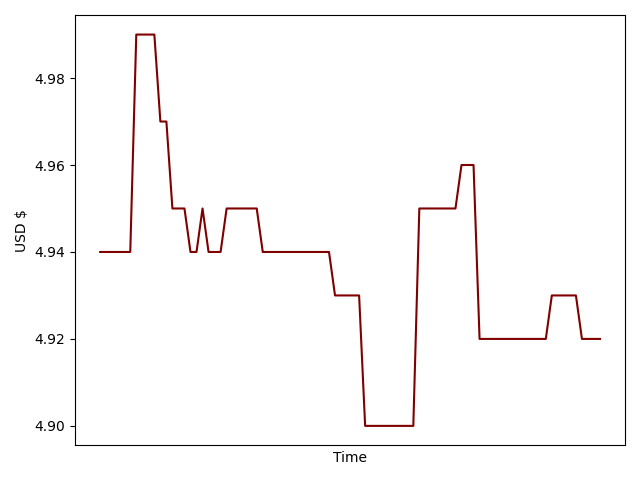
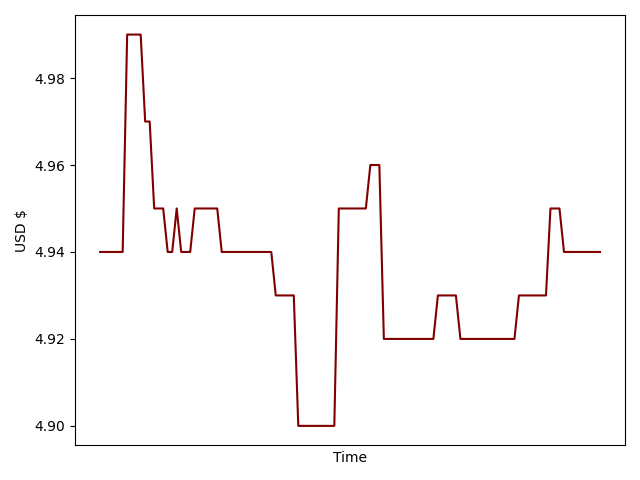
read and throw in database lol

diff --git a/templates/main.html b/templates/main.html
@@ -17,12 +17,16 @@
 </div>
 
 <div class="sidenav">
-  <a href="#about">{{ btc }}</a>
-  <a href="#services">{{ doge}}</a>
-  <a href="#clients"> {{ eth }}</a>
-  <a href="#contact"> {{ ltc }}</a>
+  <a href="/btc">{{ btc }}</a>
+  <a href="/doge">{{ doge}}</a>
+  <a href="/eth"> {{ eth }}</a>
+  <a href="/ltc"> {{ ltc }}</a>
   <hr/>
-  <a href="#"> {{ total }}</a>
+  <a href="/"> {{ total }}</a>
+  <form method="post">
+  <hr/>
+  <input class="btn btn-success" type="submit" value="UPDATE">
+  </form>
 </div>
 
 </body>

diff --git a/static/css/style.css b/static/css/style.css
@@ -11,15 +11,20 @@ body {
   right: 0;
   background-color: #DEDEDE;
   overflow-x: hidden;
-  padding-top: 20px;
+  padding: 20px 8px 0px 16px;
 }
-
 .sidenav a {
-  padding: 6px 8px 6px 16px;
+  padding-bottom: 6px;
   text-decoration: none;
   font-size: 10px;
   color: #414141;
   display: block;
+}
+
+.sidenav input {
+  height: 20px;
+  padding: 0px 5px 0px 5px;
+  font-size: 10px;
 }
 
 hr {

diff --git a/coinbaseacc.py b/coinbaseacc.py
@@ -7,13 +7,24 @@ from coinbase.wallet.client import Client
 from coinbase.wallet.error import AuthenticationError
 # datetime
 import datetime as dt
+# requests
+import requests
+import urllib.request
+import json
+
 
 class CoinbaseAccount:
-    def __init__(self, client, portfoliofb):
+    def __init__(self, client, database):
         self.cb = client
-        self.portfoliofb = portfoliofb
+        self.portfoliofb = database.child('portfolio')
+        self.p_crypto = database.child('crypto')
         self.user = self.cb.get_current_user()
         self.accounts = self.cb.get_accounts()
+        self.priceAPI = CoinbasePriceAPI(self.cb)
+        
+    def graph_now(self):
+        now = dt.datetime.now().strftime("%d-%m-%Y %H:%M:%S")
+        return now
     
     def balance(self):
         total = 0
@@ -24,7 +35,7 @@ class CoinbaseAccount:
                 message.append(str(wallet['name']) + ': ' +   str(wallet['native_balance']).replace('USD ','$') )
             total += float(value)
         message.append( 'Total Balance: ' + '$' + str(total) )
-        now = dt.datetime.now().strftime("%d-%m-%Y %H:%M:%S")
+        now = self.graph_now()
         print(now)
         self.portfoliofb.update({now: total})
         return('\n'.join( message ))
@@ -33,10 +44,28 @@ class CoinbaseAccount:
         pass
     
     def current_price(self, coin):
-        pass
+        currency_code = "USD"
+        price = self.priceAPI.get_price(coin,currency_code)
+        coin_fb = self.p_crypto.child(f'{coin}/POT')
+        now = self.graph_now()
+        coin_fb.update({now: price})
     
     def buy(self, coin):
         pass
     
     def sell(self, coin):
         pass
+    
+
+
+class CoinbasePriceAPI:
+    def __init__(self, client):
+        self.cb = client
+        
+    def get_price(self,coin, real="USD"):
+        url = f'https://api.coinbase.com/v2/prices/{coin}-{real}/spot'
+        priceR = requests.get(url)
+        price = priceR.json()
+        return price['data']['amount']
+
+    

diff --git a/app.py b/app.py
@@ -5,12 +5,30 @@
 # Flask Imports
 from flask import Flask, escape, request, render_template
 from flask import Flask
-# Coinbase import
+# wallet import
 from wallet import *
 
 app = Flask(__name__)
-@app.route('/')
+@app.route('/', methods=["GET", "POST"])
 def main():
+    if request.method == "POST":
+        print(cb_acc.balance())
+        pf.plotpf()
     bal = str.splitlines(cb_acc.balance())        
-    ltc,eth,doge,btc,total = bal
+    ltc,eth,doge,btc,total = bal # instead of this, will eventually turn into a split list
     return render_template('main.html', btc=btc,doge=doge,eth=eth,ltc=ltc,total=total)
+
+@app.route('/btc')
+def btc():
+    bal = str.splitlines(cb_acc.balance())        
+    ltc,eth,doge,btc,total = bal # instead of this, will eventually turn into a split list
+    return render_template('main.html', btc=btc,doge=doge,eth=eth,ltc=ltc,total=total)
+
+@app.route('/doge')
+def doge():
+    bal = str.splitlines(cb_acc.balance())        
+    ltc,eth,doge,btc,total = bal # instead of this, will eventually turn into a split list
+    return render_template('main.html', btc=btc,doge=doge,eth=eth,ltc=ltc,total=total)
+
+if __name__ == '__main__':
+    app.run(use_reloader=True)

diff --git a/portfolio.py b/portfolio.py
@@ -4,6 +4,8 @@
 
 #matplotlib
 import datetime as dt
+import matplotlib
+matplotlib.use('Agg')
 import matplotlib.pyplot as plt
 import matplotlib.dates as md
 import numpy as np
@@ -15,6 +17,10 @@ class Portfolio:
     
     def plotpf(self):
         self.plot(self.data,"Time","USD $", 'static/portfolio.png')
+        
+    def plotCoin(self, coin):
+        pass
+        
         
     def plot(self, data, xlabel, ylabel, figname):
         xAxis = [key for key, value in data.items()]

diff --git a/wallet.py b/wallet.py
@@ -52,12 +52,16 @@ portfoliofb = ref.child('portfolio')
 # information
 cb = Client(CB_APIKey, CB_APISecret)
 
-cb_acc = CoinbaseAccount(cb, portfoliofb)
+cb_acc = CoinbaseAccount(cb, ref)
 pf = Portfolio(portfoliofb)
 
 def main():
-    print(cb_acc.balance())
-    pf.plotpf()
+    #print(cb_acc.balance())
+    #pf.plotpf()
+    #cb_acc.current_price("BTC")
+    pass
+
+
 
 if __name__ == '__main__':
     main()
